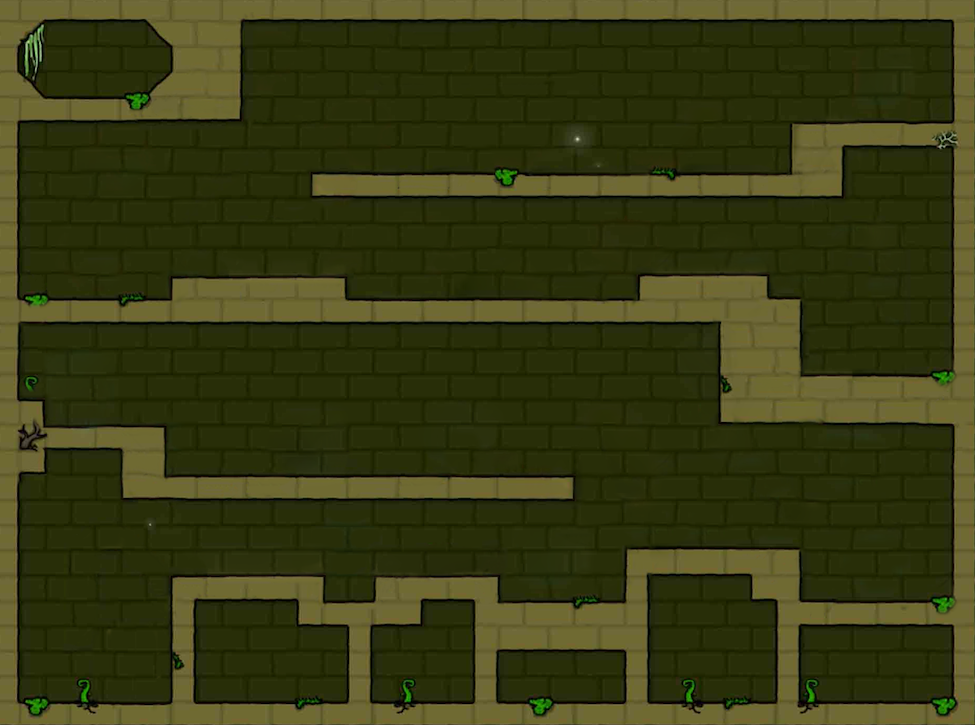
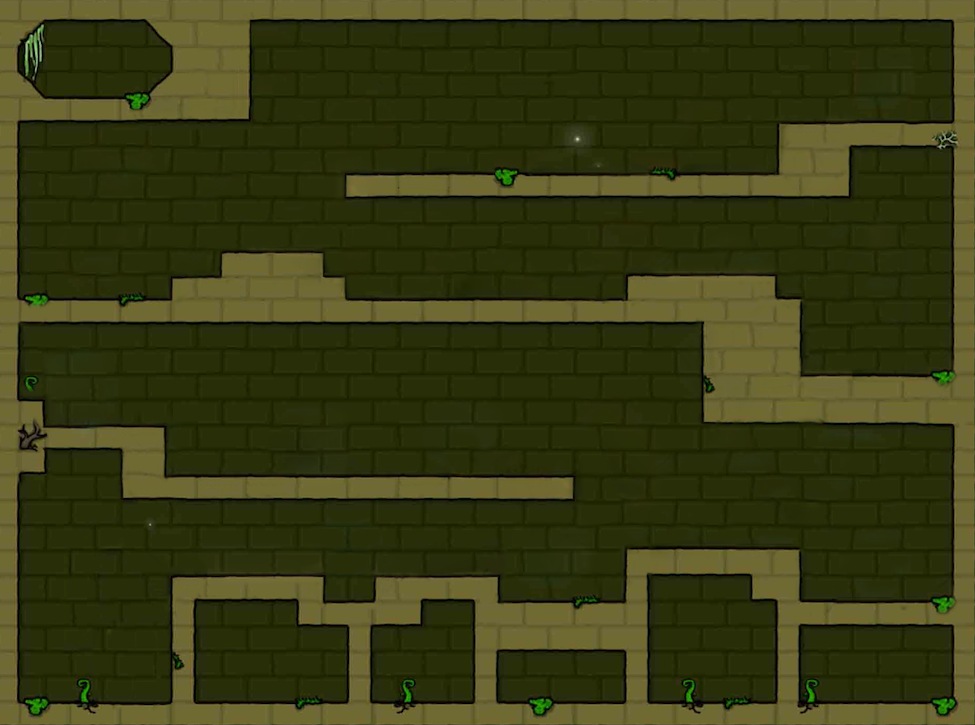
door add

diff --git a/src/LevelData.cpp b/src/LevelData.cpp
@@ -67,6 +67,7 @@ const std::vector<std::vector<CellType>> level1 = {
      CellType::FLOOR, CellType::FLOOR, CellType::FLOOR, CellType::FLOOR,
      CellType::FLOOR, CellType::FLOOR, CellType::WALL},
 
+    // 7
     {CellType::WALL,  CellType::EMPTY, CellType::EMPTY, CellType::EMPTY,
      CellType::EMPTY, CellType::EMPTY, CellType::EMPTY, CellType::EMPTY,
      CellType::EMPTY, CellType::EMPTY, CellType::EMPTY, CellType::EMPTY,
@@ -78,10 +79,11 @@ const std::vector<std::vector<CellType>> level1 = {
      CellType::WALL,  CellType::WALL,  CellType::EMPTY, CellType::EMPTY,
      CellType::EMPTY, CellType::EMPTY, CellType::WALL},
 
+    // 8
     {CellType::WALL,  CellType::EMPTY, CellType::EMPTY, CellType::EMPTY,
      CellType::EMPTY, CellType::EMPTY, CellType::EMPTY, CellType::EMPTY,
      CellType::EMPTY, CellType::EMPTY, CellType::EMPTY, CellType::EMPTY,
-     CellType::FLOOR, CellType::FLOOR, CellType::FLOOR, CellType::FLOOR,
+     CellType::EMPTY, CellType::EMPTY, CellType::FLOOR, CellType::FLOOR,
      CellType::FLOOR, CellType::FLOOR, CellType::FLOOR, CellType::FLOOR,
      CellType::FLOOR, CellType::FLOOR, CellType::FLOOR, CellType::FLOOR,
      CellType::FLOOR, CellType::FLOOR, CellType::FLOOR, CellType::FLOOR,
@@ -111,10 +113,11 @@ const std::vector<std::vector<CellType>> level1 = {
      CellType::EMPTY, CellType::EMPTY, CellType::EMPTY, CellType::EMPTY,
      CellType::EMPTY, CellType::EMPTY, CellType::WALL},
 
+    // 11
     {CellType::WALL,  CellType::EMPTY, CellType::EMPTY, CellType::EMPTY,
      CellType::EMPTY, CellType::EMPTY, CellType::EMPTY, CellType::EMPTY,
-     CellType::EMPTY, CellType::EMPTY, CellType::EMPTY, CellType::EMPTY,
-     CellType::EMPTY, CellType::EMPTY, CellType::EMPTY, CellType::EMPTY,
+     CellType::EMPTY, CellType::FLOOR, CellType::FLOOR, CellType::FLOOR,
+     CellType::FLOOR, CellType::EMPTY, CellType::EMPTY, CellType::EMPTY,
      CellType::EMPTY, CellType::EMPTY, CellType::EMPTY, CellType::EMPTY,
      CellType::EMPTY, CellType::EMPTY, CellType::EMPTY, CellType::EMPTY,
      CellType::EMPTY, CellType::EMPTY, CellType::EMPTY, CellType::EMPTY,
@@ -124,8 +127,8 @@ const std::vector<std::vector<CellType>> level1 = {
 
     {CellType::WALL,  CellType::EMPTY, CellType::EMPTY, CellType::EMPTY,
      CellType::EMPTY, CellType::EMPTY, CellType::EMPTY, CellType::FLOOR,
-     CellType::FLOOR, CellType::FLOOR, CellType::FLOOR, CellType::FLOOR,
-     CellType::FLOOR, CellType::FLOOR, CellType::EMPTY, CellType::EMPTY,
+     CellType::FLOOR, CellType::WALL,  CellType::WALL,  CellType::WALL,
+     CellType::WALL,  CellType::FLOOR, CellType::EMPTY, CellType::EMPTY,
      CellType::EMPTY, CellType::EMPTY, CellType::EMPTY, CellType::EMPTY,
      CellType::EMPTY, CellType::EMPTY, CellType::EMPTY, CellType::EMPTY,
      CellType::EMPTY, CellType::FLOOR, CellType::FLOOR, CellType::FLOOR,
@@ -150,18 +153,19 @@ const std::vector<std::vector<CellType>> level1 = {
      CellType::EMPTY, CellType::EMPTY, CellType::EMPTY, CellType::EMPTY,
      CellType::EMPTY, CellType::EMPTY, CellType::EMPTY, CellType::EMPTY,
      CellType::EMPTY, CellType::EMPTY, CellType::EMPTY, CellType::EMPTY,
-     CellType::EMPTY, CellType::EMPTY, CellType::EMPTY, CellType::EMPTY,
+     CellType::EMPTY, CellType::EMPTY, CellType::EMPTY, CellType::WALL,
      CellType::EMPTY, CellType::WALL,  CellType::WALL,  CellType::WALL,
      CellType::EMPTY, CellType::EMPTY, CellType::EMPTY, CellType::EMPTY,
      CellType::EMPTY, CellType::EMPTY, CellType::WALL},
 
+    // 15
     {CellType::WALL,  CellType::EMPTY, CellType::EMPTY, CellType::EMPTY,
      CellType::EMPTY, CellType::EMPTY, CellType::EMPTY, CellType::EMPTY,
      CellType::EMPTY, CellType::EMPTY, CellType::EMPTY, CellType::EMPTY,
      CellType::EMPTY, CellType::EMPTY, CellType::EMPTY, CellType::EMPTY,
      CellType::EMPTY, CellType::EMPTY, CellType::EMPTY, CellType::EMPTY,
      CellType::EMPTY, CellType::EMPTY, CellType::EMPTY, CellType::EMPTY,
-     CellType::EMPTY, CellType::EMPTY, CellType::EMPTY, CellType::EMPTY,
+     CellType::EMPTY, CellType::EMPTY, CellType::EMPTY, CellType::WALL,
      CellType::EMPTY, CellType::WALL,  CellType::WALL,  CellType::WALL,
      CellType::EMPTY, CellType::EMPTY, CellType::EMPTY, CellType::EMPTY,
      CellType::EMPTY, CellType::EMPTY, CellType::WALL},

diff --git a/src/Game/AppGamePlay.cpp b/src/Game/AppGamePlay.cpp
@@ -20,9 +20,38 @@ bool App::CheckCharacterCollision(const glm::vec2 &position, glm::vec2 size,
 // 載入地圖網格，並初始化 GridSystem
 bool App::LoadLevelGrid(int levelNumber) {
   switch (levelNumber) {
-  case 1:
+  case 1: {
     m_GridSystem = GridSystem(level1);
-    break;
+
+    // 初始化角色 Fireboy
+    if (!m_Fireboy) {
+      m_Fireboy = std::make_shared<Fireboy>();
+      glm::vec2 fireboyInitPos = m_GridSystem.CellToGamePosition(35, 5);
+      m_Fireboy->SetPosition(fireboyInitPos);
+      m_Root.AddChild(m_Fireboy);
+    }
+
+    // 初始化角色 Watergirl
+    if (!m_Watergirl) {
+      m_Watergirl = std::make_shared<Watergirl>();
+      glm::vec2 watergirlInitPos = m_GridSystem.CellToGamePosition(3, 17);
+      m_Watergirl->SetPosition(watergirlInitPos);
+      m_Root.AddChild(m_Watergirl);
+    }
+
+    // Fireboy 的門
+    glm::vec2 fireboyDoorPos = m_GridSystem.CellToGamePosition(32, 14);
+    m_Fireboy_Door->SetPosition(fireboyDoorPos);
+    m_Fireboy_Door->SetOpen(false);
+    m_Fireboy_Door->SetVisible(true);
+
+    // Watergirl 的門
+    glm::vec2 watergirlDoorPos = m_GridSystem.CellToGamePosition(4, 27);
+    m_Watergirl_Door->SetPosition(watergirlDoorPos);
+    m_Watergirl_Door->SetOpen(false);
+    m_Watergirl_Door->SetVisible(true);
+  } break;
+
   case 2: // 先讓 level2 ~ level5 預設為 level1，等你完成後再改回來
   case 3:
   case 4:
@@ -33,9 +62,6 @@ bool App::LoadLevelGrid(int levelNumber) {
     LOG_ERROR("Invalid level number: {}", levelNumber);
     return false;
   }
-
-  CellType type = m_GridSystem.GetCell(10, 10);
-  std::cout << "Cell at (10,10) is: " << static_cast<int>(type) << std::endl;
 
   m_IsGridLoaded = true;
   LOG_INFO("Successfully loaded level {}", levelNumber);
@@ -119,22 +145,6 @@ void App::GamePlay() {
       LOG_ERROR("Failed to load level {}", m_CurrentLevel);
       return;
     }
-  }
-
-  // 初始化角色 Fireboy
-  if (!m_Fireboy) {
-    m_Fireboy = std::make_shared<Fireboy>();
-    glm::vec2 fireboyInitPos = m_GridSystem.CellToGamePosition(35, 5);
-    m_Fireboy->SetPosition(fireboyInitPos);
-    m_Root.AddChild(m_Fireboy);
-  }
-
-  // 初始化角色 Watergirl
-  if (!m_Watergirl) {
-    m_Watergirl = std::make_shared<Watergirl>();
-    glm::vec2 watergirlInitPos = m_GridSystem.CellToGamePosition(3, 17);
-    m_Watergirl->SetPosition(watergirlInitPos);
-    m_Root.AddChild(m_Watergirl);
   }
 
   // 記錄角色位置

diff --git a/include/Object/Door.hpp b/include/Object/Door.hpp
@@ -1,0 +1,46 @@
+#ifndef DOOR_HPP
+#define DOOR_HPP
+
+#include "Util/GameObject.hpp"
+#include "Util/Image.hpp"
+#include <string>
+
+class Door : public Util::GameObject {
+public:
+  explicit Door(const std::string &imagePath)
+      : GameObject(std::make_shared<Util::Image>(imagePath), 10),
+        m_ImagePath(imagePath), m_IsOpen(false) {
+    SetPivot(glm::vec2(-GetScaledSize().x / 2 + 15.0f,
+                       -GetScaledSize().y / 2 + 15.0f));
+  }
+
+  Door(const Door &) = delete;
+  Door(Door &&) = delete;
+  Door &operator=(const Door &) = delete;
+  Door &operator=(Door &&) = delete;
+
+  [[nodiscard]] const std::string &GetImagePath() const { return m_ImagePath; }
+  [[nodiscard]] bool IsOpen() const { return m_IsOpen; }
+
+  void SetOpen(bool isOpen) {
+    m_IsOpen = isOpen;
+    SetVisible(!isOpen);
+  }
+
+  void SetPosition(const glm::vec2 &position) {
+    m_Transform.translation = position;
+  }
+
+  void SetImage(const std::string &imagePath) {
+    m_ImagePath = imagePath;
+    SetDrawable(std::make_shared<Util::Image>(imagePath));
+  }
+
+  void UpdateAnimation() {}
+
+private:
+  std::string m_ImagePath;
+  bool m_IsOpen; // 門是否打開
+};
+
+#endif // DOOR_HPP

diff --git a/src/App.cpp b/src/App.cpp
@@ -1,13 +1,12 @@
 #include "App.hpp"
+#include "LevelData.hpp"
 #include "Util/Image.hpp"
 #include "Util/Input.hpp"
 #include "Util/Keycode.hpp"
 #include "Util/Logger.hpp"
-#include "LevelData.hpp"
 #include "config.hpp"
 #include <SDL.h>
 #include <memory>
-
 
 App::App() {
   LOG_TRACE("Game Initialize");
@@ -157,6 +156,22 @@ App::App() {
       RESOURCE_DIR "/material/background/rlevel1.png");
   m_Level1Background->SetVisible(false);
   m_Root.AddChild(m_Level1Background);
+
+  // 第二關背景
+  // 第三關背景
+  // 第四關背景
+  // 第五關背景
+
+  // Door
+  m_Fireboy_Door = std::make_shared<Door>(
+      RESOURCE_DIR "/material/props/door/door-fireboy.png");
+  m_Fireboy_Door->SetVisible(false);
+  m_Root.AddChild(m_Fireboy_Door);
+
+  m_Watergirl_Door = std::make_shared<Door>(
+      RESOURCE_DIR "/material/props/door/door-watergirl.png");
+  m_Watergirl_Door->SetVisible(false);
+  m_Root.AddChild(m_Watergirl_Door);
 
   m_Root.Update();
 }

diff --git a/include/App.hpp b/include/App.hpp
@@ -6,6 +6,7 @@
 #include "Character/Character.hpp"
 #include "GridSystem.hpp"
 #include "LevelData.hpp"
+#include "Object/Door.hpp"
 #include "Util/GameObject.hpp"
 #include "Util/Image.hpp"
 #include "Util/Renderer.hpp"
@@ -78,6 +79,9 @@ private:
 
   std::shared_ptr<Character> m_Fireboy;
   std::shared_ptr<Character> m_Watergirl;
+
+  std::shared_ptr<Door> m_Fireboy_Door;
+  std::shared_ptr<Door> m_Watergirl_Door;
 
   // 網格系統
   GridSystem m_GridSystem;
